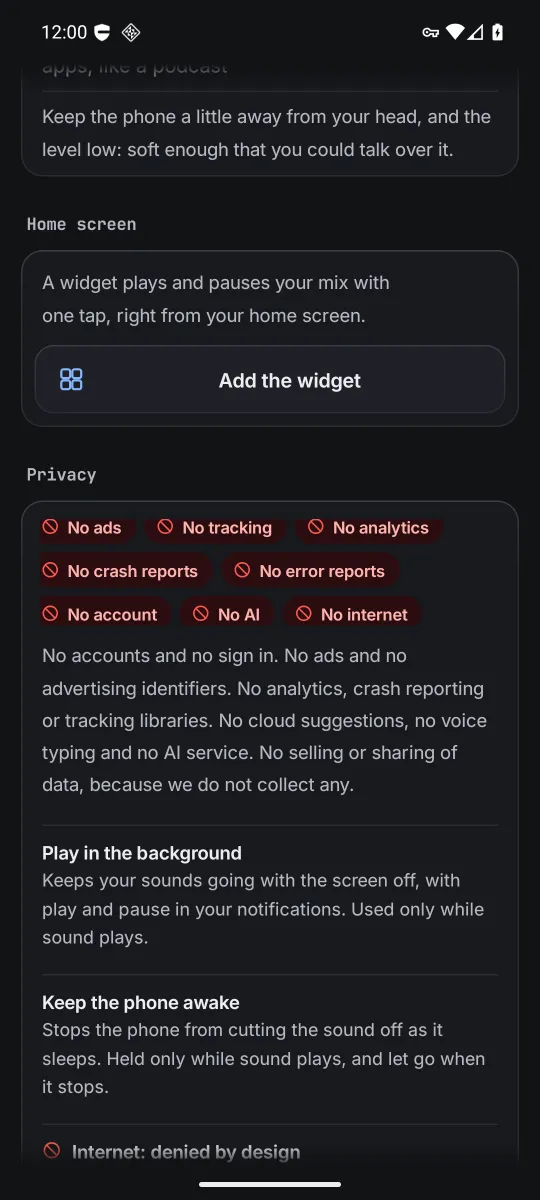
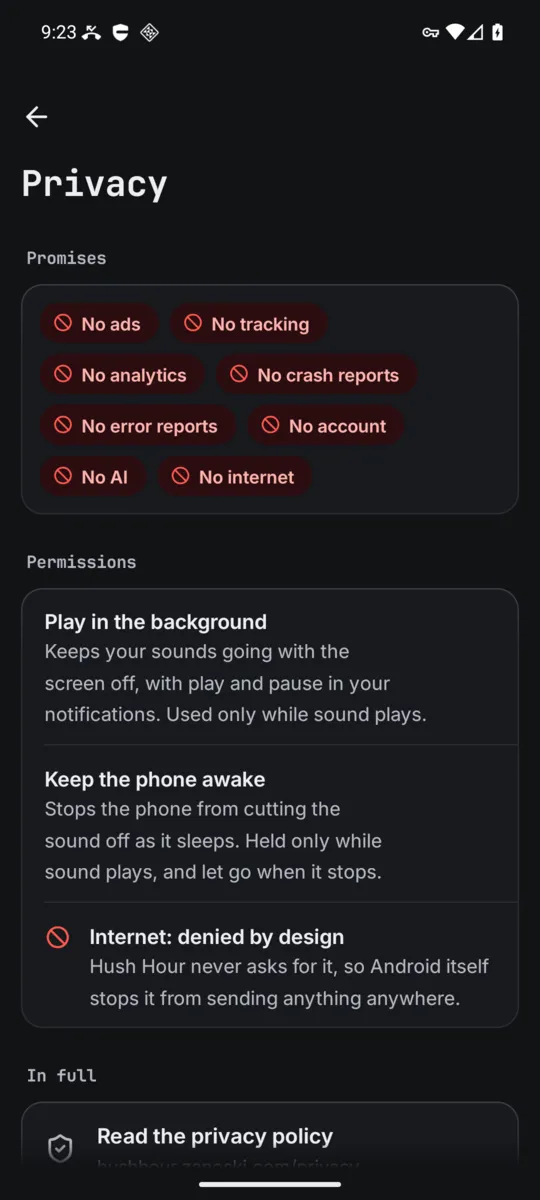
The guide shows Settings as the third item of the bar, a hub of cards with small pages
More now holds only Save this mix and Add the widget, Back on Mixes or Settings goes to Sounds, and
Privacy, Help and feedback and About say what they hold now. The More, Settings and Privacy pictures
are fresh captures of the app.

diff --git a/docs/guide.html b/docs/guide.html
@@ -4,11 +4,11 @@
 <meta charset="utf-8">
 <meta name="viewport" content="width=device-width, initial-scale=1, viewport-fit=cover">
 <title>Guide · Hush Hour user guide</title>
-<meta name="description" content="How to use Hush Hour: Sounds and Mixes, the sleep timer, More, the dim screen, the widget and Settings.">
+<meta name="description" content="How to use Hush Hour: Sounds, Mixes and Settings, the sleep timer, More, the dim screen and the widget.">
 <meta name="theme-color" content="#f6f7f9" media="(prefers-color-scheme: light)">
 <meta name="theme-color" content="#000000" media="(prefers-color-scheme: dark)">
 <meta property="og:title" content="Guide · Hush Hour user guide">
-<meta property="og:description" content="How to use Hush Hour: Sounds and Mixes, the sleep timer, More, the dim screen, the widget and Settings.">
+<meta property="og:description" content="How to use Hush Hour: Sounds, Mixes and Settings, the sleep timer, More, the dim screen and the widget.">
 <link rel="icon" href="img/icon.svg" type="image/svg+xml">
 <link rel="preload" href="fonts/jetbrains-mono-bold.woff2" as="font" type="font/woff2" crossorigin>
 <link rel="preload" href="fonts/inter-regular.woff2" as="font" type="font/woff2" crossorigin>
@@ -305,9 +305,9 @@ footer .lic { flex-basis: 100%; font-size: .9375rem; }
         <h2>Start in one tap</h2>
         <p>Hush Hour opens on Sounds. Press the round play key under the dial. The first time, soft rain on the roof plays. The dial says what is going on (Ready, Time left, Fading out or All night), how long is left, and the clock time it goes silent. The line under it names what plays.</p>
 
-        <h2>Two sections in the bar</h2>
-        <p>The bar at the foot of the screen has two sections, Sounds and Mixes. The one you are on sits on a blue pill. Tap the other to switch; it opens at its top. Tap the one you are on to scroll back to its top.</p>
-        <p>At the top right are two keys on both sections: the moon dims the screen, and the three dots open More.</p>
+        <h2>Three sections in the bar</h2>
+        <p>The bar at the foot of the screen has three sections: Sounds, Mixes and Settings. The one you are on sits on a blue pill. Tap another to switch; it opens at its top. Tap the one you are on to scroll back to its top. Back on Mixes or Settings takes you to Sounds.</p>
+        <p>At the top right are two keys on every section: the moon dims the screen, and the three dots open More.</p>
       </div>
       <figure><img src="img/home-playing.jpg" srcset="img/home-playing-300.webp 300w, img/home-playing-540.webp 540w" sizes="(min-width: 840px) 260px, 45vw" alt="Sounds while playing: the time, the sleep timer dial with 45 minutes left and Silent by 11:15 PM, the pause key, the mix name and the timer chips, with Sounds and Mixes in the bar at the foot." width="540" height="1200" loading="lazy" decoding="async"><figcaption>Sounds<span>The dial, play and the timer chips.</span></figcaption></figure>
     </div>
@@ -353,9 +353,9 @@ footer .lic { flex-basis: 100%; font-size: .9375rem; }
         <p>Why a timer by default? Steady sound helps most while you fall asleep, and one study found noise left on all night took some dream sleep. All night is there if you want it.</p>
 
         <h2>More</h2>
-        <p>The three dots at the top open More, a sheet from the foot of the screen. It names what plays, then holds Save this mix, Add the widget and Settings.</p>
+        <p>The three dots at the top open More, a sheet from the foot of the screen. It names what plays, then holds Save this mix and Add the widget.</p>
       </div>
-      <figure><img src="img/more.jpg" srcset="img/more-300.webp 300w, img/more-540.webp 540w" sizes="(min-width: 840px) 260px, 45vw" alt="The More sheet: Hush Hour, what plays now, then Save this mix, Add the widget and Settings." width="540" height="1200" loading="lazy" decoding="async"><figcaption>More<span>Save, the widget, Settings.</span></figcaption></figure>
+      <figure><img src="img/more.jpg" srcset="img/more-300.webp 300w, img/more-540.webp 540w" sizes="(min-width: 840px) 260px, 45vw" alt="The More sheet: Hush Hour, what plays now, then Save this mix and Add the widget." width="540" height="1200" loading="lazy" decoding="async"><figcaption>More<span>Save, and the widget.</span></figcaption></figure>
     </div>
 
     <div class="with-shot">
@@ -367,7 +367,7 @@ footer .lic { flex-basis: 100%; font-size: .9375rem; }
         <p>Sound keeps playing with the screen off. The notification and the lock screen show what plays, with pause and stop. A call or an alarm pauses it, and it comes back after. If headphones come out, it pauses so the sound never jumps to the speaker (you can turn that off in Settings, Sound). To play under a podcast or audiobook, turn on Play along with other apps.</p>
 
         <h2>The widget</h2>
-        <p>Pick Add the widget in More or in Settings, Home screen. Or touch and hold your home screen, pick Widgets, then Hush Hour. The widget shows the mix and plays or pauses it with one tap. Tap its words to open the app.</p>
+        <p>Pick Add the widget in More or in Settings, Sleep and sound. Or touch and hold your home screen, pick Widgets, then Hush Hour. The widget shows the mix and plays or pauses it with one tap. Tap its words to open the app.</p>
       </div>
       <figure><img src="img/dim.jpg" srcset="img/dim-300.webp 300w, img/dim-540.webp 540w" sizes="(min-width: 840px) 260px, 45vw" alt="The dimmed screen: black, with only the time in a dim grey." width="540" height="1200" loading="lazy" decoding="async"><figcaption>Dimmed<span>Only the time, in dim grey.</span></figcaption></figure>
     </div>
@@ -375,24 +375,24 @@ footer .lic { flex-basis: 100%; font-size: .9375rem; }
     <div class="with-shot">
       <div class="doc">
         <h2>Settings</h2>
-        <p>Open Settings from More. It fills the screen; the arrow at the top left takes you back.</p>
+        <p>Settings is the third item in the bar. It is a page of cards, each row saying what is set now; a row with an arrow opens its own small page, and the arrow at the top left of that page takes you back.</p>
         <dl class="rows plate">
           <div><dt>Look</dt><dd>Follow the phone (Light by day, Dark at night), Light, Dark, or Black, true black for OLED screens and dark rooms. Dark is where Hush Hour starts.</dd></div>
           <div><dt>Sleep timer</dt><dd>How long the fade at the end takes: 5 minutes, 10 minutes (gentle) or 20 minutes (very slow), and why it fades.</dd></div>
           <div><dt>Sound</dt><dd>Rare moments on or off; Keep it quiet, a soft ceiling on loudness; pause when headphones come out; play along with other apps.</dd></div>
-          <div><dt>Home screen</dt><dd>Add the widget.</dd></div>
-          <div><dt>Privacy</dt><dd>The promises (no ads, no tracking, no analytics, no crash or error reports, no account, no AI, no internet), and every permission the app holds and why.</dd></div>
-          <div><dt>Help</dt><dd>This guide, the report page and the privacy policy.</dd></div>
+          <div><dt>Add the widget</dt><dd>Play and pause from your home screen.</dd></div>
+          <div><dt>Privacy</dt><dd>The promises as red ban chips, every permission the app holds and why, and the privacy policy in full.</dd></div>
+          <div><dt>Help and feedback</dt><dd>This guide, the report page, a note that Hush Hour is for rest and not medical care, and the credits: where the recordings come from and the fonts.</dd></div>
           <div><dt>Support the developer</dt><dd>Buy me a coffee, at buymeacoffee.com/zanoshky.</dd></div>
-          <div><dt>About</dt><dd>The version, and where the recordings come from.</dd></div>
+          <div><dt>About</dt><dd>The version, and where your mixes and settings are kept.</dd></div>
         </dl>
       </div>
-      <figure><img src="img/privacy.jpg" srcset="img/privacy-300.webp 300w, img/privacy-540.webp 540w" sizes="(min-width: 840px) 260px, 45vw" alt="Privacy in Settings: red ban chips No ads, No tracking, No analytics, No crash reports, No error reports, No account, No AI and No internet, the five promises, then Play in the background and Keep the phone awake with why." width="540" height="1200" loading="lazy" decoding="async"><figcaption>Privacy<span>Every promise and permission.</span></figcaption></figure>
+      <figure><img src="img/privacy.jpg" srcset="img/privacy-300.webp 300w, img/privacy-540.webp 540w" sizes="(min-width: 840px) 260px, 45vw" alt="Privacy in Settings: red ban chips No ads, No tracking, No analytics, No crash reports, No error reports, No account, No AI and No internet, then Play in the background, Keep the phone awake and Internet denied by design, each with why." width="540" height="1200" loading="lazy" decoding="async"><figcaption>Privacy<span>Every promise and permission, once.</span></figcaption></figure>
     </div>
 
     <div class="doc">
       <h2>Accessibility</h2>
-      <p>Every control has a TalkBack label, and each sound tile is read as a switch that is on or off. Touch targets are at least 48 dp, text grows with the phone's font size (the tiles get wider as it does), and words keep a 7 to 1 contrast in every look.</p>
+      <p>Every control has a TalkBack label, and each sound tile is read as a switch that is on or off. Touch targets are at least 48 dp, text grows with the phone's font size (the tiles get wider as it does, one across at the biggest sizes), and words keep a 7 to 1 contrast in every look.</p>
     </div>
 
   </div>

diff --git a/docs/index.html b/docs/index.html
@@ -308,7 +308,7 @@ footer .lic { flex-basis: 100%; font-size: .9375rem; }
       <li><figure><img src="img/home-playing.jpg" srcset="img/home-playing-300.webp 300w, img/home-playing-540.webp 540w" sizes="(min-width: 840px) 260px, 45vw" alt="Sounds while playing: the time, the sleep timer dial with 45 minutes left and Silent by 11:15 PM, the pause key, the mix name and the timer chips, with Sounds and Mixes in the bar at the foot." width="540" height="1200" fetchpriority="high"><figcaption>Sounds<span>The dial, play and the timer.</span></figcaption></figure></li>
       <li><figure><img src="img/sounds.jpg" srcset="img/sounds-300.webp 300w, img/sounds-540.webp 540w" sizes="(min-width: 840px) 260px, 45vw" alt="The sound tiles on Sounds: Rain, Window, Roof, Tent, Downpour, Storm, Ocean, Stream, Forest, Wind, Crickets, Campfire, Fireplace, Fan and White noise. The five in the mix are lit." width="540" height="1200" loading="lazy" decoding="async"><figcaption>The sounds<span>Tap a tile to add it.</span></figcaption></figure></li>
       <li><figure><img src="img/mixes.jpg" srcset="img/mixes-300.webp 300w, img/mixes-540.webp 540w" sizes="(min-width: 840px) 260px, 45vw" alt="Mixes: a box to name and save what plays now, your own mixes, then ready made ones like Rainy cabin, Summer night and Campfire." width="540" height="1200" loading="lazy" decoding="async"><figcaption>Mixes<span>Yours, and nine ready made.</span></figcaption></figure></li>
-      <li><figure><img src="img/settings.jpg" srcset="img/settings-300.webp 300w, img/settings-540.webp 540w" sizes="(min-width: 840px) 260px, 45vw" alt="Settings: the four look tiles, Follow the phone, Light, Dark and Black, then the sleep timer fade." width="540" height="1200" loading="lazy" decoding="async"><figcaption>Settings<span>From the three dots, More.</span></figcaption></figure></li>
+      <li><figure><img src="img/settings.jpg" srcset="img/settings-300.webp 300w, img/settings-540.webp 540w" sizes="(min-width: 840px) 260px, 45vw" alt="Settings: cards of rows, Look, Sleep and sound with Sleep timer, Sound and Add the widget, then App with Privacy and Help and feedback, each saying what is set now." width="540" height="1200" loading="lazy" decoding="async"><figcaption>Settings<span>The third item in the bar.</span></figcaption></figure></li>
     </ul>
 
   </div>

diff --git a/docs/faq.html b/docs/faq.html
@@ -311,7 +311,7 @@ footer .lic { flex-basis: 100%; font-size: .9375rem; }
     <p>Use the Overall level slider in Your mix on Sounds and your phone's volume buttons. Keep it quiet sets a soft ceiling; turn it off in Settings, Sound if the phone is far away and you need more.</p>
 
     <h2>Where did my mixes go?</h2>
-    <p>Saved mixes are on Mixes, in the bar at the foot of the screen, under Yours. Settings is in More, behind the three dots at the top.</p>
+    <p>Saved mixes are on Mixes, in the bar at the foot of the screen, under Yours. Settings is the third item in that bar.</p>
 
     <h2>Can I hear the loop?</h2>
     <p>Each sound is a loop of two to four minutes that joins without a seam, starts at a new point every time, and drifts a little in level, so it should never sound the same twice. If you can hear a click or a jump in one sound, please report it with the sound's name.</p>

diff --git a/build.py b/build.py
@@ -90,11 +90,11 @@ page("index.html", "Home", "The user guide for Hush Hour, the white noise and sl
       <li>{shot("home-playing.jpg", "Sounds while playing: the time, the sleep timer dial with 45 minutes left and Silent by 11:15 PM, the pause key, the mix name and the timer chips, with Sounds and Mixes in the bar at the foot.", "Sounds", "The dial, play and the timer.", lazy=False)}</li>
       <li>{shot("sounds.jpg", "The sound tiles on Sounds: Rain, Window, Roof, Tent, Downpour, Storm, Ocean, Stream, Forest, Wind, Crickets, Campfire, Fireplace, Fan and White noise. The five in the mix are lit.", "The sounds", "Tap a tile to add it.")}</li>
       <li>{shot("mixes.jpg", "Mixes: a box to name and save what plays now, your own mixes, then ready made ones like Rainy cabin, Summer night and Campfire.", "Mixes", "Yours, and nine ready made.")}</li>
-      <li>{shot("settings.jpg", "Settings: the four look tiles, Follow the phone, Light, Dark and Black, then the sleep timer fade.", "Settings", "From the three dots, More.")}</li>
+      <li>{shot("settings.jpg", "Settings: cards of rows, Look, Sleep and sound with Sleep timer, Sound and Add the widget, then App with Privacy and Help and feedback, each saying what is set now.", "Settings", "The third item in the bar.")}</li>
     </ul>
 """)
 
-page("guide.html", "Guide", "How to use Hush Hour: Sounds and Mixes, the sleep timer, More, the dim screen, the widget and Settings.", f"""
+page("guide.html", "Guide", "How to use Hush Hour: Sounds, Mixes and Settings, the sleep timer, More, the dim screen and the widget.", f"""
     <p class="lbl">Guide</p>
     <h1>How Hush Hour works</h1>
 
@@ -103,9 +103,9 @@ page("guide.html", "Guide", "How to use Hush Hour: Sounds and Mixes, the sleep t
         <h2>Start in one tap</h2>
         <p>Hush Hour opens on Sounds. Press the round play key under the dial. The first time, soft rain on the roof plays. The dial says what is going on (Ready, Time left, Fading out or All night), how long is left, and the clock time it goes silent. The line under it names what plays.</p>
 
-        <h2>Two sections in the bar</h2>
-        <p>The bar at the foot of the screen has two sections, Sounds and Mixes. The one you are on sits on a blue pill. Tap the other to switch; it opens at its top. Tap the one you are on to scroll back to its top.</p>
-        <p>At the top right are two keys on both sections: the moon dims the screen, and the three dots open More.</p>
+        <h2>Three sections in the bar</h2>
+        <p>The bar at the foot of the screen has three sections: Sounds, Mixes and Settings. The one you are on sits on a blue pill. Tap another to switch; it opens at its top. Tap the one you are on to scroll back to its top. Back on Mixes or Settings takes you to Sounds.</p>
+        <p>At the top right are two keys on every section: the moon dims the screen, and the three dots open More.</p>
       </div>
       {shot("home-playing.jpg", "Sounds while playing: the time, the sleep timer dial with 45 minutes left and Silent by 11:15 PM, the pause key, the mix name and the timer chips, with Sounds and Mixes in the bar at the foot.", "Sounds", "The dial, play and the timer chips.")}
     </div>
@@ -151,9 +151,9 @@ page("guide.html", "Guide", "How to use Hush Hour: Sounds and Mixes, the sleep t
         <p>Why a timer by default? Steady sound helps most while you fall asleep, and one study found noise left on all night took some dream sleep. All night is there if you want it.</p>
 
         <h2>More</h2>
-        <p>The three dots at the top open More, a sheet from the foot of the screen. It names what plays, then holds Save this mix, Add the widget and Settings.</p>
+        <p>The three dots at the top open More, a sheet from the foot of the screen. It names what plays, then holds Save this mix and Add the widget.</p>
       </div>
-      {shot("more.jpg", "The More sheet: Hush Hour, what plays now, then Save this mix, Add the widget and Settings.", "More", "Save, the widget, Settings.")}
+      {shot("more.jpg", "The More sheet: Hush Hour, what plays now, then Save this mix and Add the widget.", "More", "Save, and the widget.")}
     </div>
 
     <div class="with-shot">
@@ -165,7 +165,7 @@ page("guide.html", "Guide", "How to use Hush Hour: Sounds and Mixes, the sleep t
         <p>Sound keeps playing with the screen off. The notification and the lock screen show what plays, with pause and stop. A call or an alarm pauses it, and it comes back after. If headphones come out, it pauses so the sound never jumps to the speaker (you can turn that off in Settings, Sound). To play under a podcast or audiobook, turn on Play along with other apps.</p>
 
         <h2>The widget</h2>
-        <p>Pick Add the widget in More or in Settings, Home screen. Or touch and hold your home screen, pick Widgets, then Hush Hour. The widget shows the mix and plays or pauses it with one tap. Tap its words to open the app.</p>
+        <p>Pick Add the widget in More or in Settings, Sleep and sound. Or touch and hold your home screen, pick Widgets, then Hush Hour. The widget shows the mix and plays or pauses it with one tap. Tap its words to open the app.</p>
       </div>
       {shot("dim.jpg", "The dimmed screen: black, with only the time in a dim grey.", "Dimmed", "Only the time, in dim grey.")}
     </div>
@@ -173,24 +173,24 @@ page("guide.html", "Guide", "How to use Hush Hour: Sounds and Mixes, the sleep t
     <div class="with-shot">
       <div class="doc">
         <h2>Settings</h2>
-        <p>Open Settings from More. It fills the screen; the arrow at the top left takes you back.</p>
+        <p>Settings is the third item in the bar. It is a page of cards, each row saying what is set now; a row with an arrow opens its own small page, and the arrow at the top left of that page takes you back.</p>
         <dl class="rows plate">
           <div><dt>Look</dt><dd>Follow the phone (Light by day, Dark at night), Light, Dark, or Black, true black for OLED screens and dark rooms. Dark is where Hush Hour starts.</dd></div>
           <div><dt>Sleep timer</dt><dd>How long the fade at the end takes: 5 minutes, 10 minutes (gentle) or 20 minutes (very slow), and why it fades.</dd></div>
           <div><dt>Sound</dt><dd>Rare moments on or off; Keep it quiet, a soft ceiling on loudness; pause when headphones come out; play along with other apps.</dd></div>
-          <div><dt>Home screen</dt><dd>Add the widget.</dd></div>
-          <div><dt>Privacy</dt><dd>The promises (no ads, no tracking, no analytics, no crash or error reports, no account, no AI, no internet), and every permission the app holds and why.</dd></div>
-          <div><dt>Help</dt><dd>This guide, the report page and the privacy policy.</dd></div>
+          <div><dt>Add the widget</dt><dd>Play and pause from your home screen.</dd></div>
+          <div><dt>Privacy</dt><dd>The promises as red ban chips, every permission the app holds and why, and the privacy policy in full.</dd></div>
+          <div><dt>Help and feedback</dt><dd>This guide, the report page, a note that Hush Hour is for rest and not medical care, and the credits: where the recordings come from and the fonts.</dd></div>
           <div><dt>Support the developer</dt><dd>Buy me a coffee, at buymeacoffee.com/zanoshky.</dd></div>
-          <div><dt>About</dt><dd>The version, and where the recordings come from.</dd></div>
+          <div><dt>About</dt><dd>The version, and where your mixes and settings are kept.</dd></div>
         </dl>
       </div>
-      {shot("privacy.jpg", "Privacy in Settings: red ban chips No ads, No tracking, No analytics, No crash reports, No error reports, No account, No AI and No internet, the five promises, then Play in the background and Keep the phone awake with why.", "Privacy", "Every promise and permission.")}
+      {shot("privacy.jpg", "Privacy in Settings: red ban chips No ads, No tracking, No analytics, No crash reports, No error reports, No account, No AI and No internet, then Play in the background, Keep the phone awake and Internet denied by design, each with why.", "Privacy", "Every promise and permission, once.")}
     </div>
 
     <div class="doc">
       <h2>Accessibility</h2>
-      <p>Every control has a TalkBack label, and each sound tile is read as a switch that is on or off. Touch targets are at least 48 dp, text grows with the phone's font size (the tiles get wider as it does), and words keep a 7 to 1 contrast in every look.</p>
+      <p>Every control has a TalkBack label, and each sound tile is read as a switch that is on or off. Touch targets are at least 48 dp, text grows with the phone's font size (the tiles get wider as it does, one across at the biggest sizes), and words keep a 7 to 1 contrast in every look.</p>
     </div>
 """)
 
@@ -209,7 +209,7 @@ page("faq.html", "Questions", "Answers to common questions about Hush Hour, and 
     <p>Use the Overall level slider in Your mix on Sounds and your phone's volume buttons. Keep it quiet sets a soft ceiling; turn it off in Settings, Sound if the phone is far away and you need more.</p>
 
     <h2>Where did my mixes go?</h2>
-    <p>Saved mixes are on Mixes, in the bar at the foot of the screen, under Yours. Settings is in More, behind the three dots at the top.</p>
+    <p>Saved mixes are on Mixes, in the bar at the foot of the screen, under Yours. Settings is the third item in that bar.</p>
 
     <h2>Can I hear the loop?</h2>
     <p>Each sound is a loop of two to four minutes that joins without a seam, starts at a new point every time, and drifts a little in level, so it should never sound the same twice. If you can hear a click or a jump in one sound, please report it with the sound's name.</p>
